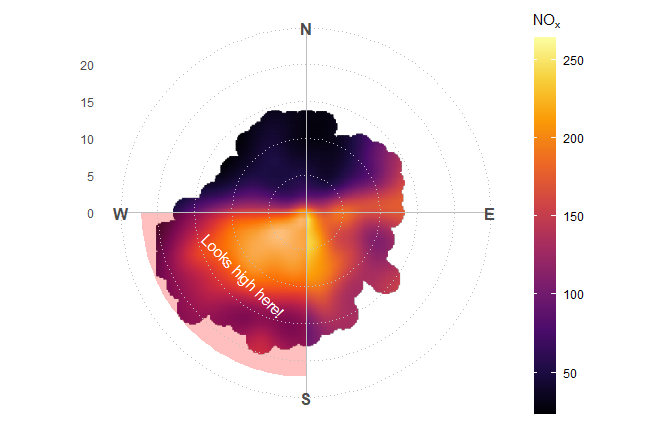
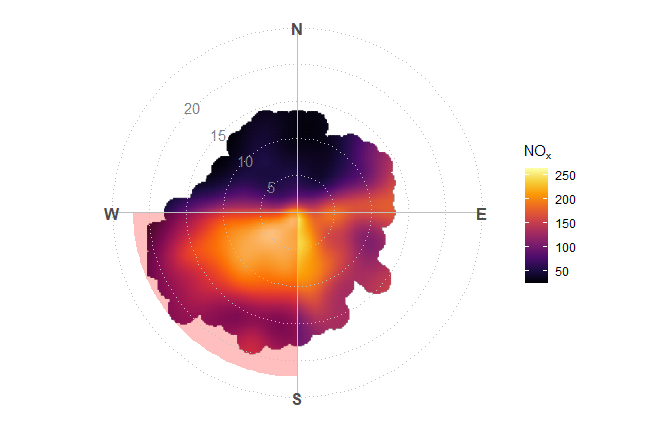
docs (readme): update readme

diff --git a/README.md b/README.md
@@ -23,12 +23,14 @@ You can install the development version of ggopenair from
 remotes::install_github("jack-davison/ggopenair")
 ```
 
-## Example
+## Demonstration
+
+### Introduction
 
 An openair polar plot looks like this:
 
 ``` r
-openair::polarPlot(openair::mydata)
+openair::polarPlot(ggopenair::marylebone)
 ```
 
 <img src="man/figures/README-legacy-1.png" style="display: block; margin: auto;" />
@@ -37,8 +39,10 @@ To achieve the same result in `ggopenair` one would write:
 
 ``` r
 library(ggopenair)
+library(ggplot2)
+#> Warning: package 'ggplot2' was built under R version 4.2.2
 
-gg_polar_plot(openair::mydata, "nox") +
+gg_polar_plot(marylebone, "nox") +
   theme_polar() +
   scale_opencolours()
 ```
@@ -48,69 +52,115 @@ gg_polar_plot(openair::mydata, "nox") +
 This is more long winded, but the flexibility allows users to customise
 their outputs very closely. For example:
 
--   **Custom Themes:** Use `ggplot2::theme()` or any theme package. For
-    example, we can use the style from the Wall Street Journal:
+### Custom Themes
+
+Use `ggplot2::theme()` or any theme package. For example, we can use the
+style from the Wall Street Journal:
 
 ``` r
 gg_polar_plot(openair::mydata, "nox") +
   ggthemes::theme_wsj() +
-  ggplot2::scale_color_gradientn(colours = rev(ggthemes::wsj_pal()(2))) +
-  ggplot2::guides(color = ggplot2::guide_colorbar(barwidth = grid::unit(5, "cm")))
+  scale_color_gradientn(colours = rev(ggthemes::wsj_pal()(2))) +
+  guides(color = guide_colorbar(barwidth = grid::unit(5, "cm")))
 ```
 
 <img src="man/figures/README-themes-1.png" style="display: block; margin: auto;" />
 
--   **Scales:** Use any `ggplot2` scale function to change how the plot
-    behaves. For example, use `scale_color_binned()` to bin the colour
-    bar.
+Or we could make our polar plot blend in with some other plots produced
+in Google Sheets:
+
+``` r
+gg_polar_plot(openair::mydata, "nox") +
+  ggthemes::theme_gdocs() +
+  scale_color_gradientn(colours = ggthemes::gdocs_pal()(3))
+```
+
+<img src="man/figures/README-unnamed-chunk-1-1.png" style="display: block; margin: auto;" />
+
+### Scales
+
+Use any `ggplot2` scale function to change how the plot behaves. For
+example, use `scale_color_binned()` to bin the colour bar.
 
 ``` r
 gg_polar_plot(openair::mydata, "nox") +
   theme_polar() +
-  ggplot2::scale_color_binned(type = "viridis",
-                              breaks = seq(0, 1000, 50))
+  scale_color_steps(low = "black",
+                             high = "goldenrod",
+                             breaks = seq(0, 1000, 40))
 ```
 
 <img src="man/figures/README-scales-1.png" style="display: block; margin: auto;" />
 
--   **Annotations:** Use `annotate()` to easily draw on your polar plots
-    to draw attention to certain aspects.
+Alternatively, one could use the “trans” argument to shift the colour
+scale. This could be particularly useful for `gg_polar_freq()`, which
+had its own “trans” argument in `openair`.
+
+``` r
+shift_axis <- function(trans) {
+  gg_polar_freq(marylebone, "nox") +
+    theme_polar() +
+    scale_fill_gradientn(colours = c("darkgreen", "hotpink"),
+                                   trans = trans) +
+    labs(title = trans)
+}
+
+patchwork::wrap_plots(shift_axis("identity"),
+                      shift_axis("sqrt"),
+                      shift_axis("log10"))
+```
+
+<img src="man/figures/README-trans-1.png" style="display: block; margin: auto;" />
+
+### Annotations
+
+Use `annotate()` to easily draw on your polar plots and to draw
+attention to certain aspects. In-built annotation functions make it easy
+to, for example, draw a highlighting wedge or direct axis labels.
 
 ``` r
 gg_polar_plot(openair::mydata, "nox") +
   theme_polar() +
   scale_opencolours("inferno") +
   annotate_polar_wedge("S", "W") +
-  ggplot2::annotate(
-    geom = "text",
-    x = (270+180)/2, y = 12, angle = -45,
-    label = "Looks high here!", 
-    color = "white"
-  )
+  annotate_polar_axis(seq(5, 20, 5), color = "grey50")
 ```
 
 <img src="man/figures/README-annotations-1.png" style="display: block; margin: auto;" />
 
--   **Extensions:** Use any of the `ggplot2` extension packages out
-    there, such as `patchwork`. For example, a polar plot could be
-    inserted into a time variation plot:
+Calendar plots also possess their own dedicated annotation functions.
+
+``` r
+marylebone |>
+  openair::selectByDate(year = 2019) |>
+  gg_calendar("nox") +
+  annotate_calendar_text("date") +
+  annotate_calendar_wd(colour = "black") +
+  scale_opencolours()
+```
+
+<img src="man/figures/README-calendar-1.png" style="display: block; margin: auto;" />
+
+### Extension
+
+Use any of the `ggplot2` extension packages out there, such as
+`patchwork`. For example, a polar plot could be inserted into a time
+variation plot.
 
 ``` r
 library(patchwork)
 
 polar <-
   gg_polar_plot(openair::mydata, "nox") + 
-  theme_polar(guides = FALSE) + 
-  ggplot2::theme(panel.border = ggplot2::element_rect(fill = NA, color = "black")) +
+  theme_polar() + 
+  theme(panel.border = element_rect(fill = NA, color = "black")) +
   scale_opencolours()
 
 tv <- gg_timevariation(openair::mydata, "nox", return = "list")
+tv <- purrr::map(tv, ~.x + theme_classic() + theme(legend.position = "none", panel.border = element_rect(fill = NA)))
 
-(tv$day_hour + ggplot2::theme_bw() + ggplot2::theme(legend.position = "none")) /
-  ((tv$month + ggplot2::theme_bw() + ggplot2::theme(legend.position = "none")) | 
-     polar |
-     (tv$day + ggplot2::theme_bw() + ggplot2::theme(legend.position = "none"))) +
-  plot_layout(heights = c(.8, 1))
+tv$day_hour / (tv$month | tv$day | polar) +
+  plot_layout(heights = c(.8, 1), guides = "collect")
 ```
 
 <img src="man/figures/README-patch-1.png" width="100%" style="display: block; margin: auto;" />
